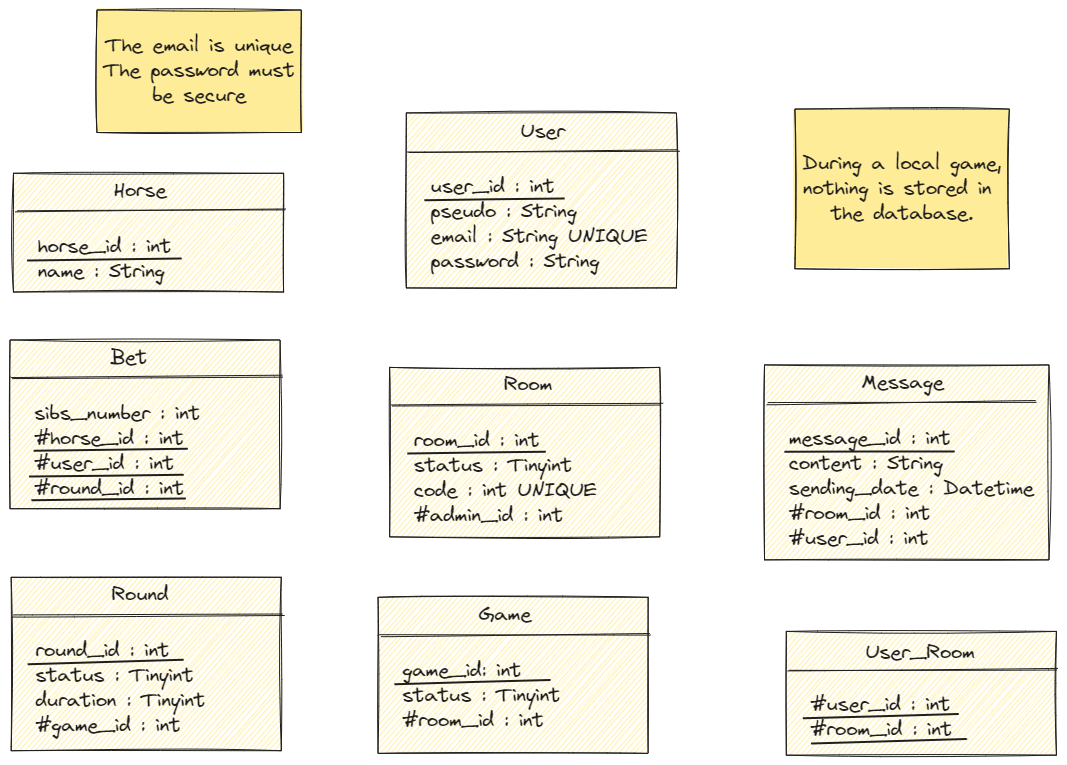
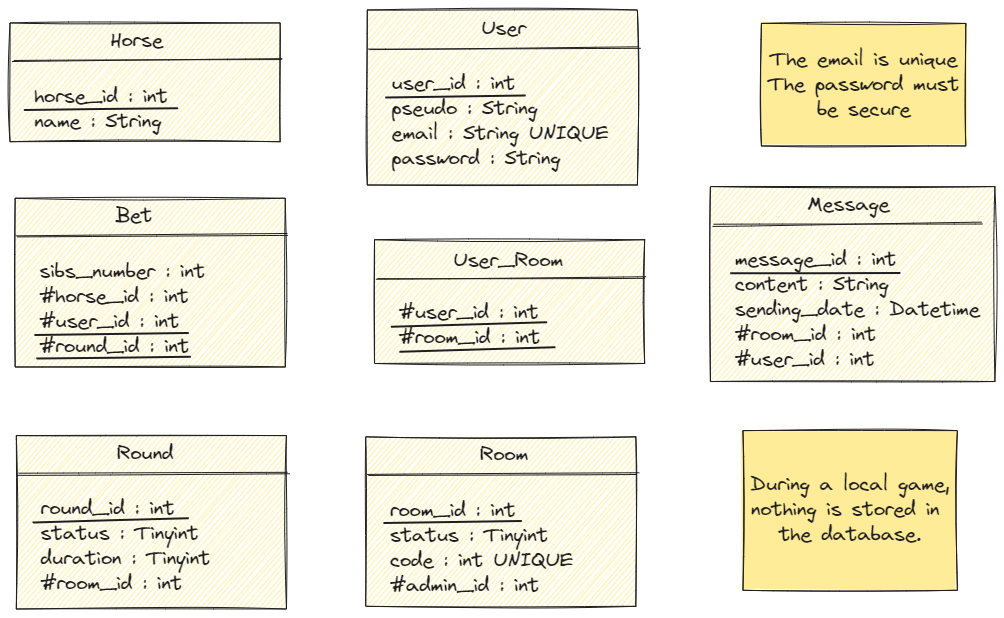
🐛 FIX: Remove game table and adapt api

diff --git a/api/src/controllers/roundCtrl.js b/api/src/controllers/roundCtrl.js
@@ -1,21 +1,21 @@
 const modelRound = require("../models/roundModel");
 
 exports.create = (req, res) => {
-  const { duration, gameId } = req.body;
-  if (duration && gameId) {
-    if (typeof duration !== "number" || typeof gameId !== "number") {
+  const { duration, roomId } = req.body;
+  if (duration && roomId) {
+    if (typeof duration !== "number" || typeof roomId !== "number") {
       return res.status(400).json({
-        error: "duration and gameId must be numbers",
+        error: "duration and roomId must be numbers",
         errorCode: 5000,
       });
     } else {
       const db = req.db;
-      const newRound = new modelRound(1, duration, gameId);
+      const newRound = new modelRound(1, duration, roomId);
       const sqlQuery =
-        "INSERT INTO Round (status, duration, game_id) VALUES (?, ?, ?)";
+        "INSERT INTO Round (status, duration, room_id) VALUES (?, ?, ?)";
       db.run(
         sqlQuery,
-        [newRound.status, newRound.duration, newRound.gameId],
+        [newRound.status, newRound.duration, newRound.roomId],
         function (err) {
           if (err) {
             console.error(err);
@@ -66,7 +66,7 @@ exports.get = (req, res) => {
         errorCode: 5021,
       });
     } else {
-      const sqlQuery = "SELECT * FROM Round WHERE round_id = ?";
+      const sqlQuery = "SELECT * FROM Round WHERE round_id = ? AND status = 1";
       db.all(sqlQuery, roundId, (err, results) => {
         if (results.length === 0) {
           res.status(400).json({ error: "Invalid data", errorCode: 5020 });
@@ -75,7 +75,7 @@ exports.get = (req, res) => {
             id: results[0].round_id,
             status: results[0].status,
             duration: results[0].duration,
-            gameId: results[0].game_id,
+            roomId: results[0].room_id,
           });
         }
       });

diff --git a/api/index.js b/api/index.js
@@ -11,7 +11,6 @@ const roomRoutes = require("./src/routes/room.js");
 const roundRoutes = require("./src/routes/round.js");
 const betRoutes = require("./src/routes/bet.js");
 const messageRoutes = require("./src/routes/message.js");
-const gameRoutes = require("./src/routes/game.js");
 
 app.use((req, res, next) => {
   res.setHeader("Access-Control-Allow-Origin", "*");
@@ -33,7 +32,6 @@ app.use("/api/room", roomRoutes);
 app.use("/api/round", roundRoutes);
 app.use("/api/bet", betRoutes);
 app.use("/api/message", messageRoutes);
-app.use("/api/game", gameRoutes);
 
 app.listen(3000, () => {
   console.log("Server is running on port 3000");

diff --git a/api/src/controllers/roomCtrl.js b/api/src/controllers/roomCtrl.js
@@ -96,7 +96,7 @@ exports.get = (req, res) => {
   const code = req.params.code;
 
   if (code) {
-    const sqlQuery = "SELECT * FROM Room WHERE code = ?";
+    const sqlQuery = "SELECT * FROM Room WHERE code = ? AND status = 1";
     db.all(sqlQuery, code, (err, results) => {
       if (results.length === 0) {
         res.status(400).json({ error: "Invalid data", errorCode: 2010 });

diff --git a/api/src/models/roundModel.js b/api/src/models/roundModel.js
@@ -1,8 +1,8 @@
 class Round {
-  constructor(status, duration, gameId) {
+  constructor(status, duration, roomId) {
     this.status = status;
     this.duration = duration;
-    this.gameId = gameId;
+    this.roomId = roomId;
   }
 }
 
